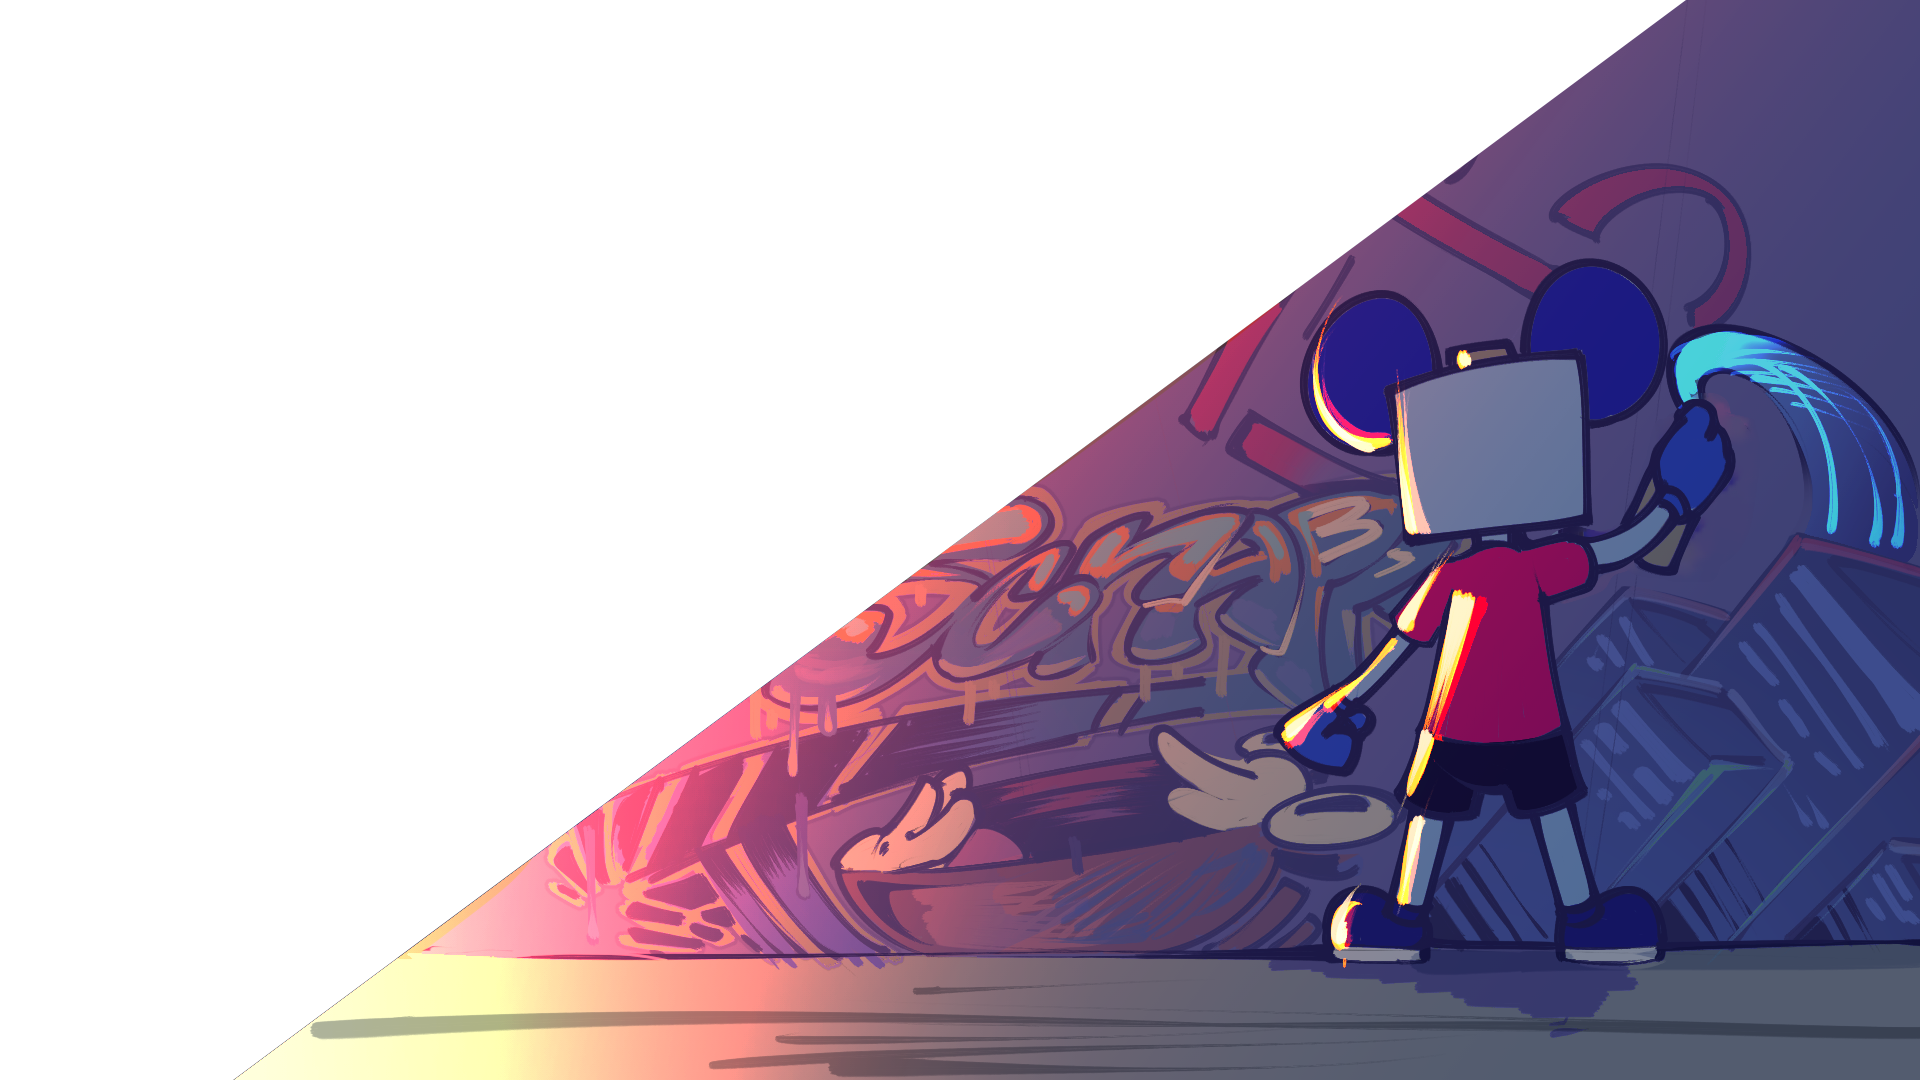
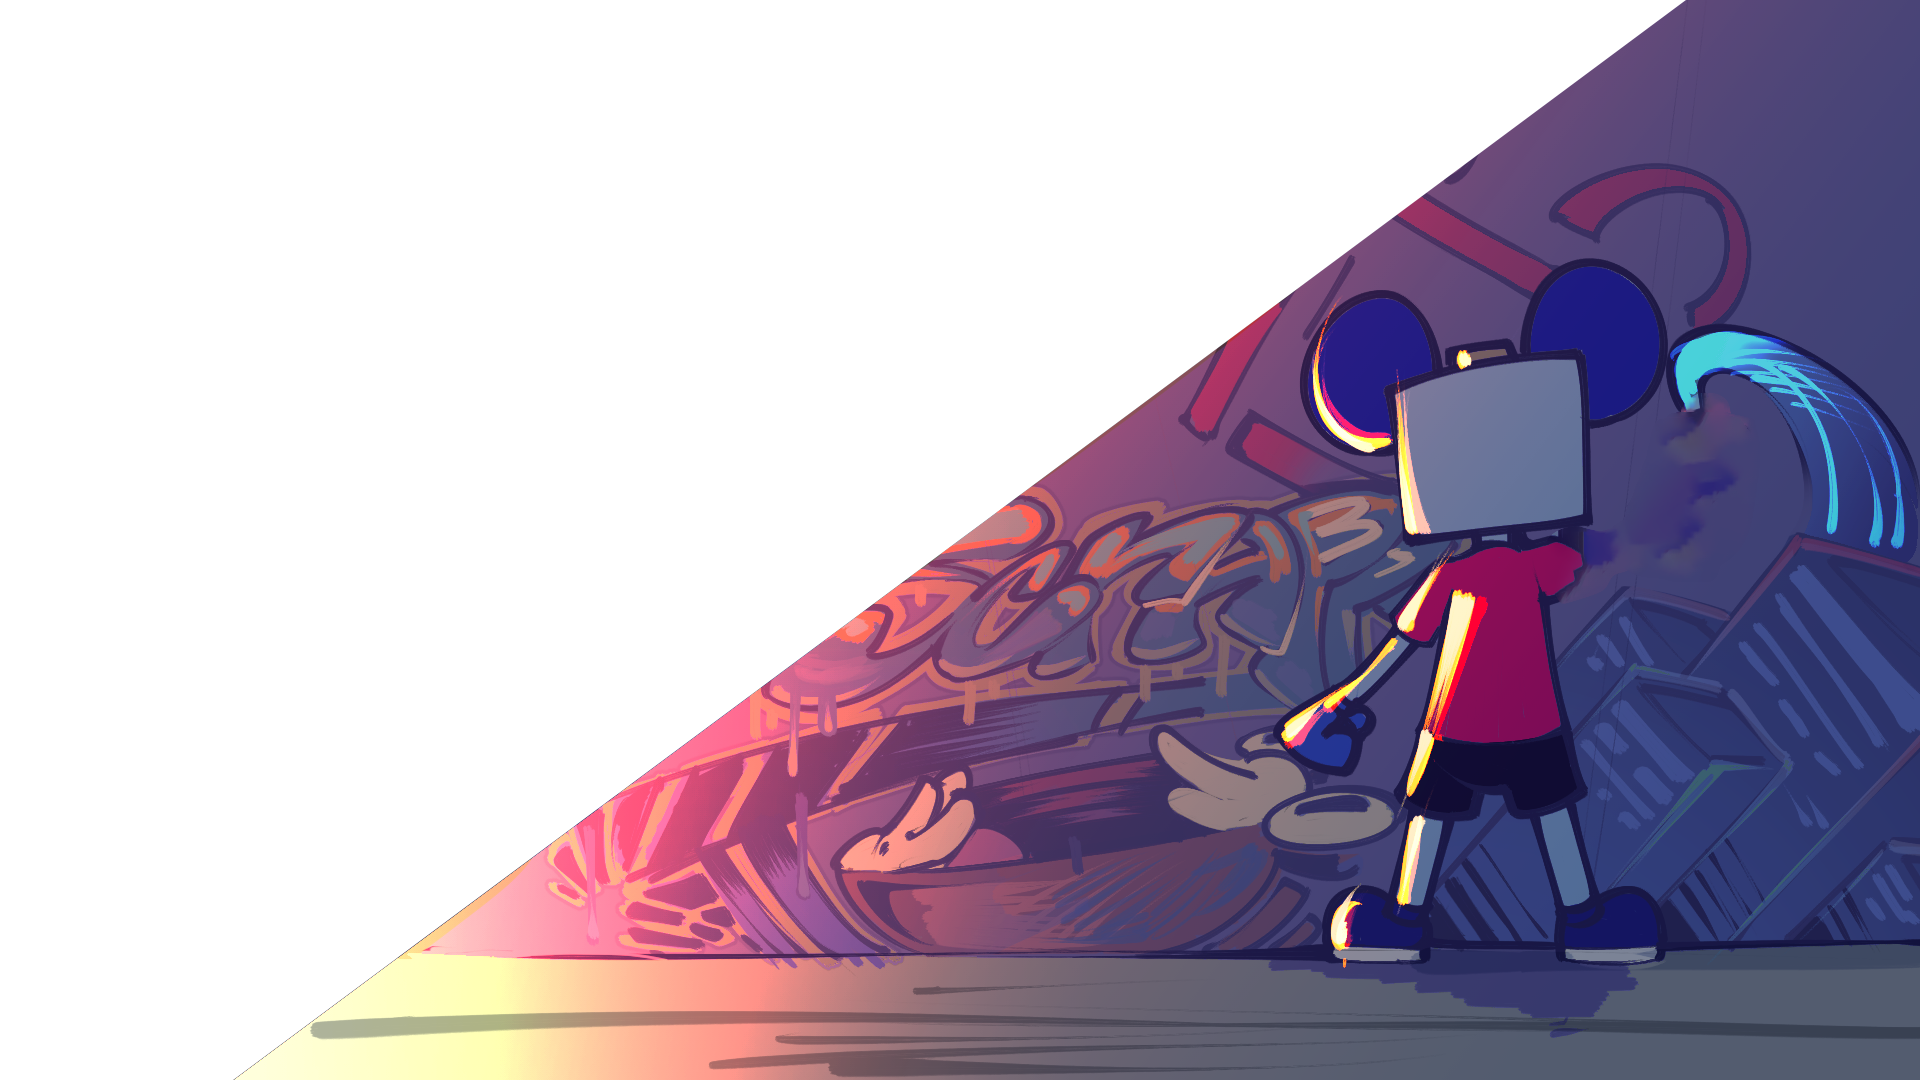
SYFT-920: scene 4 refactor transitions

Changed region(s): [[0.8125, 0.3667, 0.9062, 0.55]]

diff --git a/components/Scenes/Scene-4/index.module.scss b/components/Scenes/Scene-4/index.module.scss
@@ -4,7 +4,9 @@
   position: relative;
   @include fullSize;
   overflow: hidden;
-  transform: translate(50%, -50%);
+  animation-name: fadeIn;
+  animation-duration: 1s;
+  animation-fill-mode: forwards;
 
   > * {
     transition: 1s;
@@ -31,11 +33,19 @@
   }
   .backdrop4 {
     opacity: 0;
-    transform: translate(50%, -50%);
+    transform: translate(38%, -50%);
     background: center no-repeat url('/assets/images/scene4/2.png');
-    animation-name: toggleBg;
-    animation-iteration-count: infinite;
-    animation-duration: 2s;
+    background-position: bottom right;
+
+    img {
+      position: absolute;
+      bottom: 477px;
+      right: 180px;
+      transform-origin: left;
+      animation-name: wave;
+      animation-iteration-count: infinite;
+      animation-duration: 2s;
+    }
   }
 }
 
@@ -53,14 +63,23 @@
   opacity: 0.2;
 }
 
-@keyframes toggleBg {
+@keyframes fadeIn {
   0% {
-    background: center no-repeat url('/assets/images/scene4/2.png');
-  }
-  50% {
-    background: center no-repeat url('/assets/images/scene4/2-1.png');
+    transform: translate(-150vh, 0);
   }
   100% {
-    background: center no-repeat url('/assets/images/scene4/2.png');
+    transform: translate(0, 0);
+  }
+}
+
+@keyframes wave {
+  0% {
+    transform: translate(-8px, 2px) rotate(-3deg);
+  }
+  50% {
+    transform: translate(15px, -2px) rotate(8deg);
+  }
+  100% {
+    transform: translate(-8px, 2px) rotate(-3deg);
   }
 }

diff --git a/components/Scenes/Scene-4/index.js b/components/Scenes/Scene-4/index.js
@@ -8,10 +8,8 @@ import styles from './index.module.scss';
 const Scene4 = ({ transitionData }) => {
   const [step, setStep] = useState(1);
   const percent = (transitionData.percent * 10).toFixed();
-  const enteringPercent = (transitionData.enteringPercent * 100).toFixed();
 
   useEffect(() => {
-    // console.log(percent);
     if (percent < 5) {
       setStep(1);
     } else if (percent >= 5) {
@@ -26,11 +24,6 @@ const Scene4 = ({ transitionData }) => {
           [styles.stepTwo]: step === 2,
           [styles.stepThree]: transitionData.isLeaving,
         })}
-        style={{
-          transform: `translate(${100 - enteringPercent}%, ${
-            enteringPercent - 100
-          }%)`,
-        }}
       >
         <div className={styles.backdrop1}>
           <Text maxW="520" bottom="15%" right="14%" visible={step === 1}>
@@ -47,7 +40,9 @@ const Scene4 = ({ transitionData }) => {
             depot, he honed his skills.
           </Text>
         </div>
-        <div className={styles.backdrop4} />
+        <div className={styles.backdrop4}>
+          <img src="/assets/images/scene4/3.png" alt="" />
+        </div>
       </div>
     </MotionDiv>
   );

diff --git a/components/Scenes/Scene-5/index.js b/components/Scenes/Scene-5/index.js
@@ -10,7 +10,6 @@ const Scene5 = ({ transitionData }) => {
   const percent = (transitionData.percent * 10).toFixed();
 
   useEffect(() => {
-    // console.log(percent);
     if (percent < 3) {
       setStep(1);
     } else if (percent >= 3 && percent < 6) {

diff --git a/components/Scenes/Scene-8/index.js b/components/Scenes/Scene-8/index.js
@@ -10,7 +10,6 @@ const Scene8 = ({ transitionData }) => {
   const percent = (transitionData.percent * 10).toFixed();
 
   useEffect(() => {
-    // console.log(percent);
     if (percent < 3) {
       setStep(1);
     } else if (percent >= 3 && percent < 6) {

diff --git a/components/Scenes/Scene-7/index.js b/components/Scenes/Scene-7/index.js
@@ -9,7 +9,6 @@ const Scene7 = ({ transitionData }) => {
   const percent = (transitionData.percent * 10).toFixed();
 
   useEffect(() => {
-    // console.log(percent);
     if (percent < 3) {
       setStep(1);
     } else if (percent > 3 && percent < 7) {

diff --git a/components/Scenes/Scene-6/index.js b/components/Scenes/Scene-6/index.js
@@ -10,7 +10,6 @@ const Scene6 = ({ transitionData }) => {
   const percent = (transitionData.percent * 10).toFixed();
 
   useEffect(() => {
-    // console.log(percent);
     if (percent < 5) {
       setStep(1);
     } else if (percent >= 5) {
